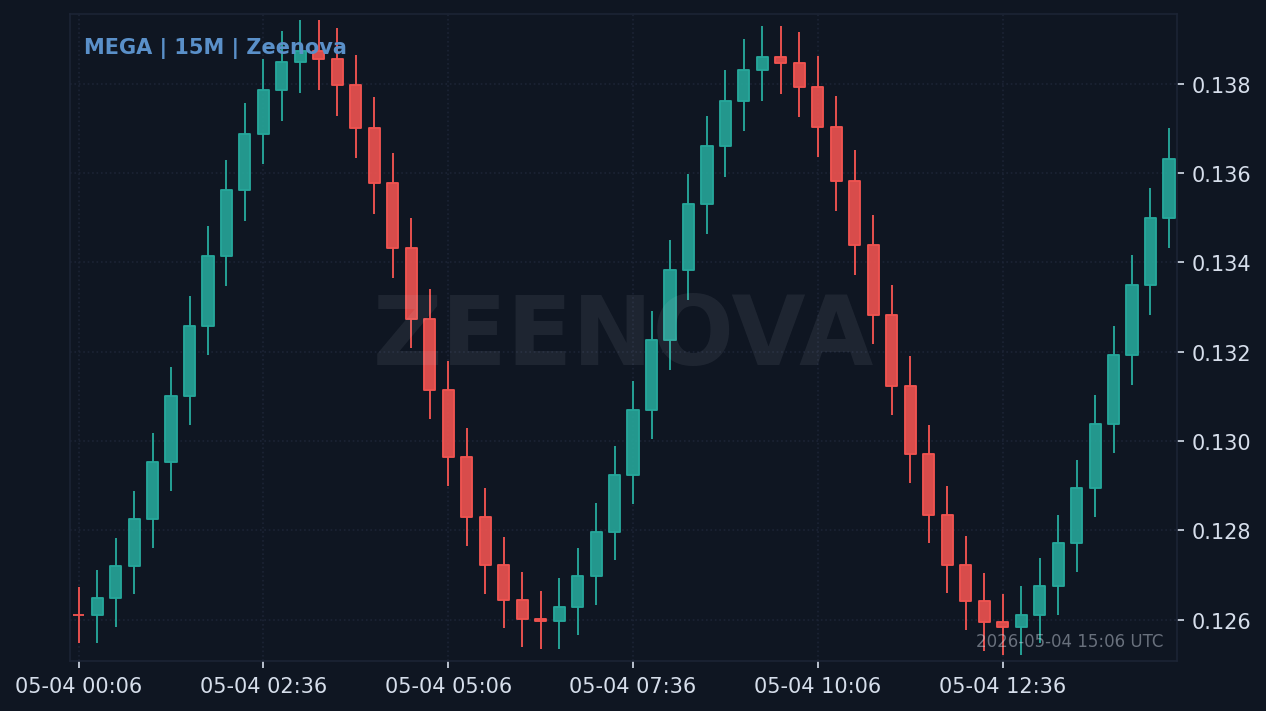
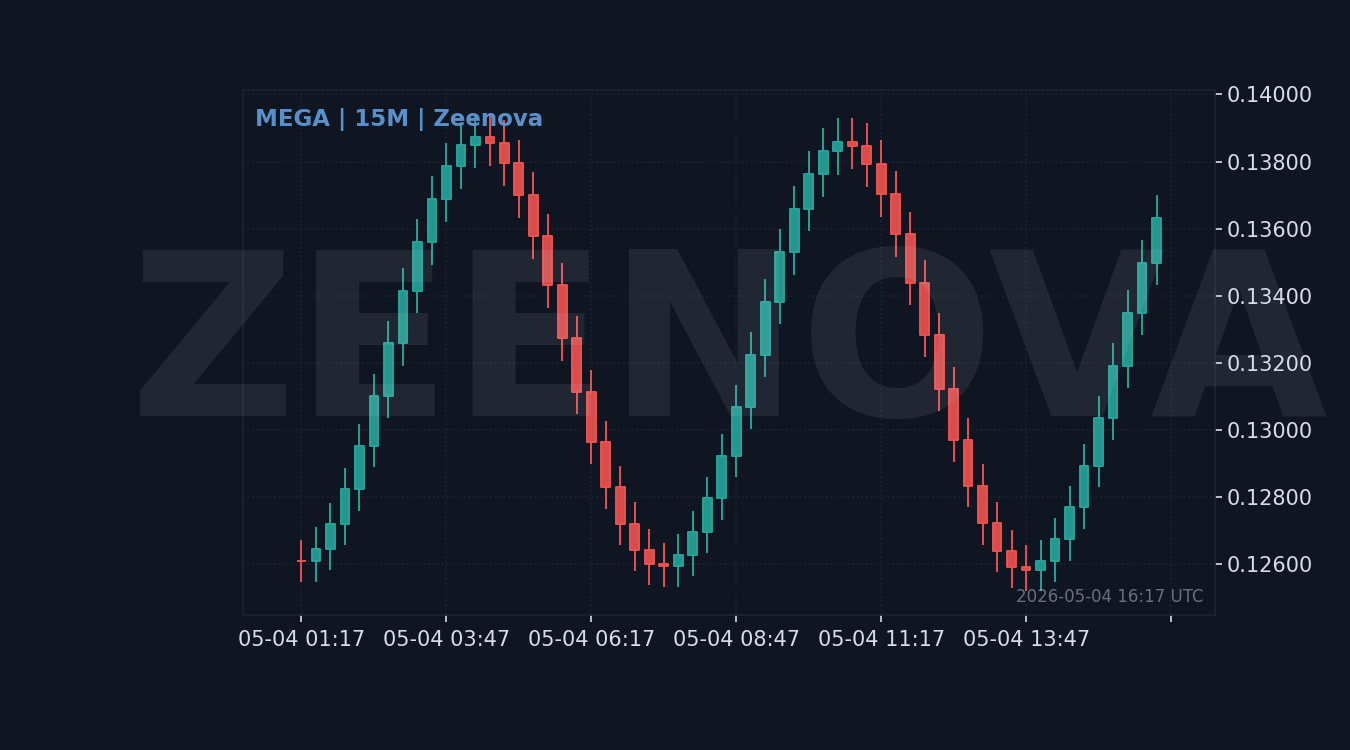
fix(chart): full-bleed candles, bigger watermark, adaptive y-axis precision
* Override mplfinance's default 18%-per-side margins by repositioning
  every returned axis to a near-edge-to-edge box. The candles now use
  the full image width instead of being squeezed into the center 60%.

* Render the y-axis tick labels with a magnitude-aware formatter:
  - >= 1000:  '90,000.00' (thousands separator + 2 dp)
  - >= 1:     '1.2345' (4 dp)
  - >= 0.01:  '0.04200' (5 dp)
  - smaller:  up to 8 dp, trailing zeros stripped
  Previously BTC printed as '80500' (truncated) and sub-dollar tokens
  like BILL printed as '0.04' with all the precision lost.

* Bump the central ZEENOVA watermark from 46pt to 110pt so the brand
  reads clearly across the chart instead of looking like a faint
  centerline.

diff --git a/zeenova_bot/chart.py b/zeenova_bot/chart.py
@@ -16,6 +16,7 @@ import matplotlib
 matplotlib.use("Agg")  # noqa: E402
 
 import matplotlib.pyplot as plt  # noqa: E402
+import matplotlib.ticker as mticker  # noqa: E402
 import mplfinance as mpf  # noqa: E402
 import pandas as pd  # noqa: E402
 
@@ -30,6 +31,25 @@ _UP = "#26a69a"
 _DOWN = "#ef5350"
 _TEXT = "#d6deeb"
 _ACCENT = "#5a90c9"
+
+
+def _format_price(value: float) -> str:
+    """Render ``value`` with enough precision for the magnitude.
+
+    Big tickers like BTC at ~80,500 get a thousands separator and 2 dp
+    so we always show "80,500.00" rather than "80500"; mid-cap tickers
+    keep 4 dp; sub-dollar tokens keep up to 6 dp without losing zeros.
+    """
+    if value == 0:
+        return "0.00"
+    abs_v = abs(value)
+    if abs_v >= 1000:
+        return f"{value:,.2f}"
+    if abs_v >= 1:
+        return f"{value:,.4f}"
+    if abs_v >= 0.01:
+        return f"{value:,.5f}"
+    return f"{value:,.8f}".rstrip("0").rstrip(".")
 
 
 def _build_style() -> dict[str, object]:
@@ -89,8 +109,8 @@ def render_candles(
         type="candle",
         style=style,
         returnfig=True,
-        figsize=(8.5, 5.0),
-        tight_layout=True,
+        figsize=(9.0, 5.0),
+        tight_layout=False,
         ylabel="",
         xrotation=0,
         update_width_config={"candle_linewidth": 0.9, "candle_width": 0.6},
@@ -101,6 +121,19 @@ def render_candles(
     ax.yaxis.tick_right()
     ax.yaxis.set_label_position("right")
 
+    # Adaptive price formatter: thousands separator + magnitude-aware
+    # precision so BTC shows "80,500.00" and BILL shows "0.038790".
+    ax.yaxis.set_major_formatter(mticker.FuncFormatter(lambda v, _p: _format_price(v)))
+    ax.tick_params(axis="y", pad=2, labelsize=10)
+
+    # mplfinance leaves a wide ~18% margin on every side. Override the
+    # axes position(s) to fill the canvas almost edge-to-edge so the
+    # candles use the full width. The right margin is just wide enough
+    # to fit a "90,000.00"-style tick label without clipping.
+    plot_box = (0.012, 0.085, 0.895, 0.905)
+    for a in axes:
+        a.set_position(plot_box)
+
     # Header line: "SYMBOL | TIMEFRAME | brand"
     header = f"{symbol.upper()} | {timeframe.label} | {brand_name}"
     ax.text(
@@ -109,21 +142,21 @@ def render_candles(
         header,
         transform=ax.transAxes,
         color=_ACCENT,
-        fontsize=10,
+        fontsize=11,
         fontweight="bold",
         va="top",
         ha="left",
     )
 
-    # Faint Zeenova watermark across the middle
+    # Big translucent Zeenova watermark across the middle
     ax.text(
         0.5,
         0.5,
         brand_name.upper(),
         transform=ax.transAxes,
         color=_TEXT,
-        alpha=0.08,
-        fontsize=46,
+        alpha=0.085,
+        fontsize=110,
         fontweight="bold",
         ha="center",
         va="center",
@@ -145,7 +178,7 @@ def render_candles(
     )
 
     buf = io.BytesIO()
-    fig.savefig(buf, format="png", facecolor=_BG, dpi=150, bbox_inches="tight")
+    fig.savefig(buf, format="png", facecolor=_BG, dpi=150)
     plt.close(fig)
     return buf.getvalue()
 